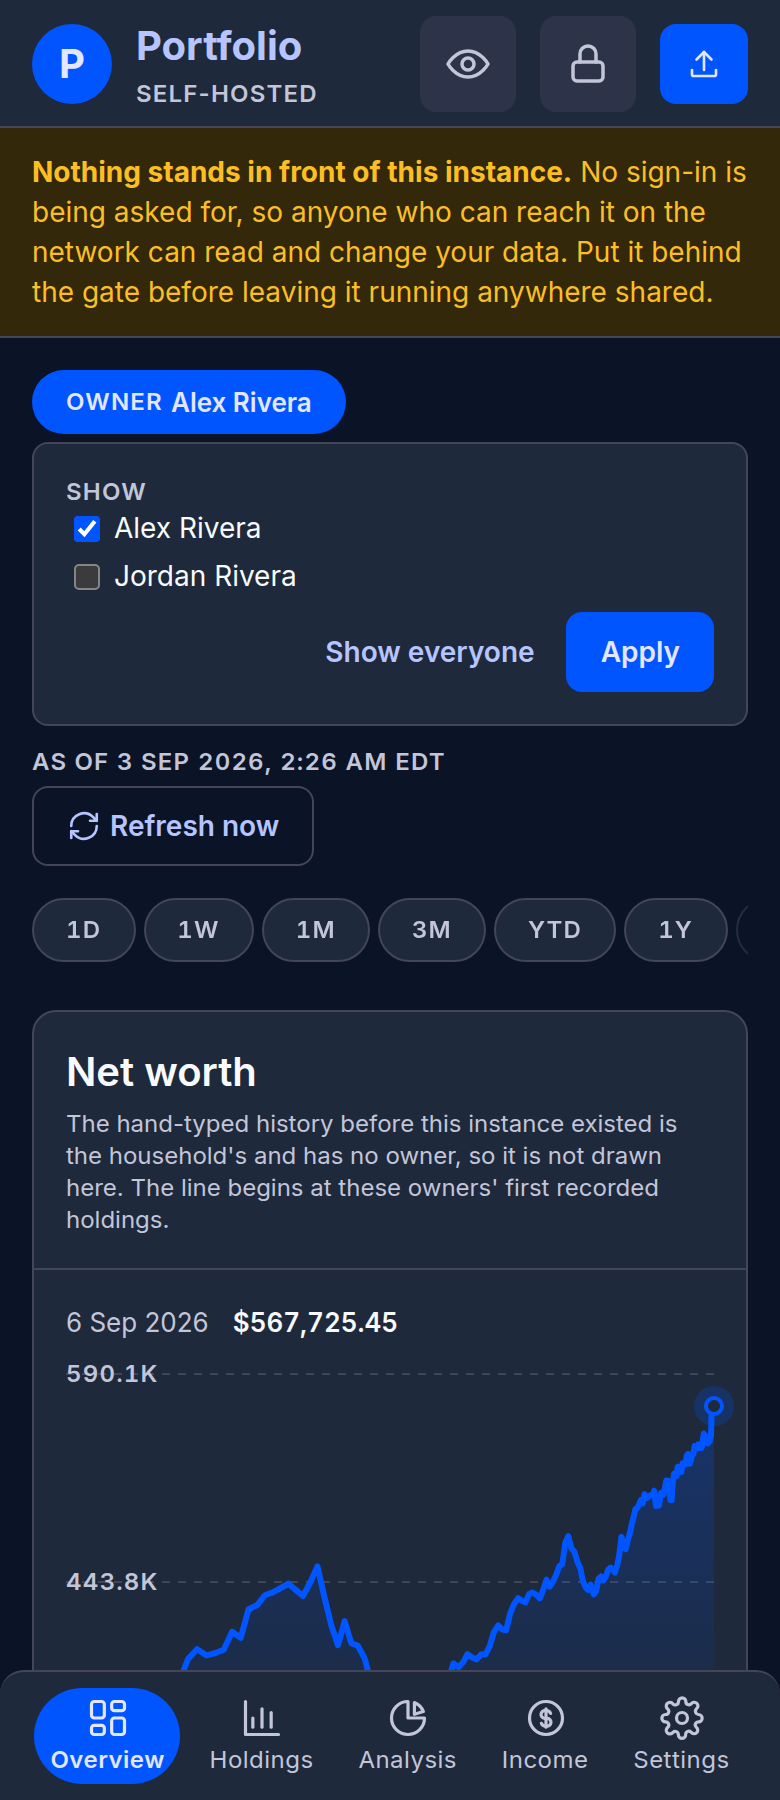
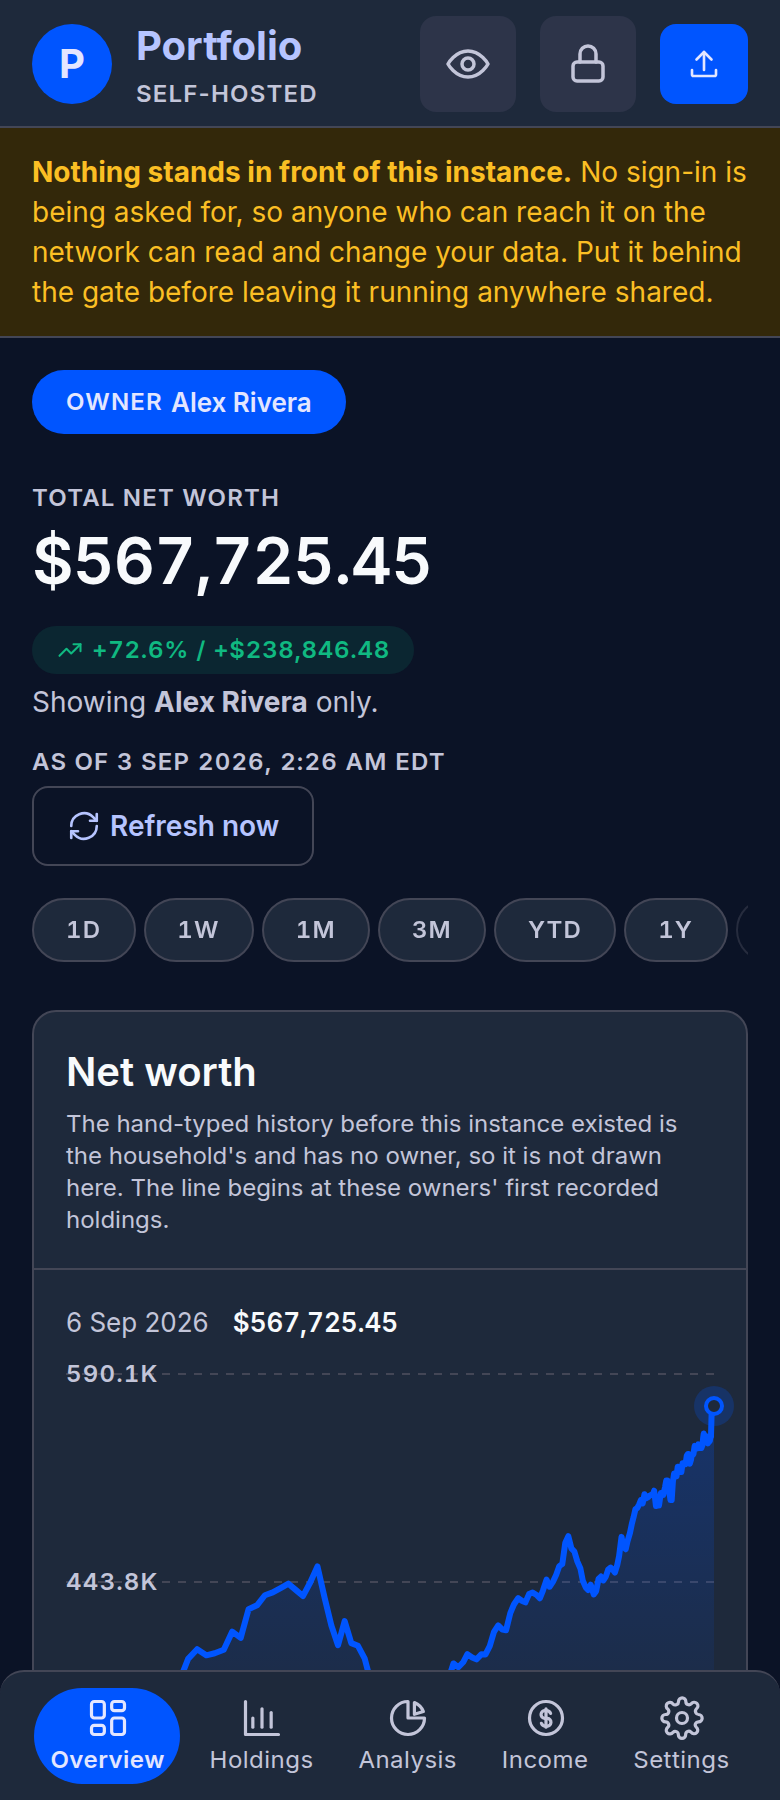
Fix a real rendering bug and a dozen captions an adversarial review found
An Opus review of the screenshot refresh found the mobile columns-mapping
shot was genuinely broken — a phone that scrolled to reach a below-the-fold
button carried that scroll into the next step's own page (no fresh
navigation between the upload flow's own steps), landing mid-page with the
app header and bottom nav both displaced. The earlier fix only scrolled
back to top before the Review shot; generalize it to every step.

Also: crop the unlock screen to its own card instead of the bare page
around it (there is no chrome behind it to exclude, and most of a
full-viewport shot was empty background); stop reopening the owner filter
before shooting Overview's narrowed mobile shot, since the open panel there
overlays the exact headline and sentence the shot exists to show (Holdings'
own menu doesn't have this problem — it overlays empty space instead);
rewrite half a dozen phone-companion captions that described content
sitting below the fold as though it were in frame; correct a claim about
when the unlock padlock actually opens; fix a caption describing the
passkey row as stacked when it is a row; add the Overview tab to a list of
Settings tabs that was missing it; and drop a contradiction between two
guide pages each claiming to be the only step strip that wraps.

Claude-Session: https://claude.ai/code/session_01N8RLCxSnPYRq2KtMFietqQ

Changed region(s): [[0.0308, 0.2489, 0.6769, 0.4044], [0.7077, 0.3422, 0.9231, 0.4044]]

diff --git a/scripts/capture-screenshots.ts b/scripts/capture-screenshots.ts
@@ -536,7 +536,27 @@ async function walkUpload(
   await page.waitForURL(/\/columns/);
   await page.evaluate(() => document.fonts.ready);
 
-  if (shots.columnsBlank) await shoot(page, shots.columnsBlank, fullPage);
+  // Every step in this flow is reached by a form submit, never a fresh
+  // `visit()` — unlike every other shot in this file, nothing here calls
+  // `page.goto()` between steps, and this app has no scroll-to-top-on-
+  // navigate of its own. On a phone, whichever control the previous step
+  // needed clicked (a button below the fold, a `<select>` `selectOption`
+  // scrolls into view to set) can leave the page scrolled, and that offset
+  // then carries into the *next* step's own page, which starts at whatever
+  // height it happens to be rather than at its own top —
+  // `upload-4-review-mobile.png` used to be almost entirely blank for
+  // exactly this reason, and `upload-mapping-mobile-*.png` used to render
+  // with its own header and the bottom navigation both displaced, before
+  // this scrolled every mobile shot in the flow back to (0, 0) first.
+  // Desktop never shows this: every desktop shot here is short enough, at
+  // 1600 wide, that no step before it ever needed to scroll at all.
+  async function shootStep(file: string | undefined): Promise<void> {
+    if (file === undefined) return;
+    if (!fullPage) await page.evaluate(() => window.scrollTo(0, 0));
+    await shoot(page, file, fullPage);
+  }
+
+  await shootStep(shots.columnsBlank);
 
   for (const [name, value] of [
     ["instrument", "Symbol"],
@@ -547,7 +567,7 @@ async function walkUpload(
   ] as const) {
     await page.selectOption(`select[name="${name}"]`, value);
   }
-  if (shots.columnsMapped) await shoot(page, shots.columnsMapped, fullPage);
+  await shootStep(shots.columnsMapped);
 
   await page.getByRole("button", { name: /save mapping and continue/i }).click();
   await page.waitForURL(/\/(instruments|review)/);
@@ -563,25 +583,13 @@ async function walkUpload(
       .nth(1)
       .getAttribute("value");
     await page.selectOption('select[name="classificationId-0"]', classification!);
-    if (shots.instruments) await shoot(page, shots.instruments, fullPage);
+    await shootStep(shots.instruments);
     await page.getByRole("button", { name: /save and continue/i }).click();
     await page.waitForURL(/\/review/);
     await page.evaluate(() => document.fonts.ready);
   }
 
-  // Each step above is a step *this flow* navigates to with a form submit
-  // rather than a fresh `visit()` — unlike every other shot in this file,
-  // nothing here calls `page.goto()` between steps, and this app has no
-  // scroll-to-top-on-navigate of its own. A phone that scrolled down to
-  // reach a button on one step therefore lands on the next one already
-  // scrolled, at whatever offset the previous page happened to be that
-  // tall — `upload-4-review-mobile.png` used to be almost entirely blank
-  // for exactly this reason, carrying the Instruments step's own scroll
-  // position into a Review page that starts well above it. Desktop never
-  // shows this: every desktop shot here is short enough, at 1600 wide, that
-  // the step before it never needed to scroll at all.
-  if (!fullPage) await page.evaluate(() => window.scrollTo(0, 0));
-  if (shots.review) await shoot(page, shots.review, fullPage);
+  await shootStep(shots.review);
 
   await forgetWalkWrites(pool, watermark);
 }
@@ -729,14 +737,23 @@ async function captureUnlock(
   desktopFile: string,
   mobileFile: string,
 ): Promise<void> {
+  // Cropped to the card (`.lock-card`, `unlock.tsx`), on both devices —
+  // never a full-page/full-viewport shot the way most of this file's
+  // captures are. The screen renders with no app chrome at all (no rail, no
+  // strip, no bottom nav — `unlock.tsx`'s own header says why), so a
+  // full-viewport capture is mostly the bare background either side of one
+  // small centred card, on desktop and on a phone alike; the card itself is
+  // the whole of what this screen is a screenshot of.
   const desktop = await open(browser, theme, false, false, false);
   await visit(desktop, "/unlock");
-  await shoot(desktop, desktopFile);
+  await desktop.locator(".lock-card").screenshot({ path: desktopFile });
+  console.log(`  ${desktopFile}`);
   await desktop.close();
 
   const mobile = await open(browser, theme, true, false, false);
   await visit(mobile, "/unlock");
-  await shoot(mobile, mobileFile, false);
+  await mobile.locator(".lock-card").screenshot({ path: mobileFile });
+  console.log(`  ${mobileFile}`);
   await mobile.close();
 }
 
@@ -849,11 +866,20 @@ async function captureReadme(browser: Browser, pool: Pool, fixture: Fixture): Pr
     // below does (finding 2's exception is about the *masking* cookie, not
     // the viewport), and every navigation already tears down the last
     // screen's state the same way the desktop loop's own `page` does.
+    // Closed, unlike the desktop pair above. `.owner-filter-menu` is
+    // `position: absolute` on every screen that has one (`app/app.css`) —
+    // opening it never pushes anything, it overlays whatever sits where it
+    // renders — but on Overview that happens to be exactly the narrowed
+    // headline and the "Showing … only" sentence this shot exists to
+    // prove still work on a phone: the panel opens right under the chip,
+    // which is right where the headline starts. Holdings' own equivalent
+    // shot (`holdings-owner-mobile.png`) keeps the menu open because there
+    // the same overlay lands on empty space above the table, not on the
+    // one thing that shot is of.
     await visitAndShootMobile(
       phone,
       `/?owner=${ownerId}&range=all`,
       `docs/screenshots/overview-owner-mobile-${theme}.png`,
-      { prepare: openOwnerFilter },
     );
     await visitAndShootMobile(phone, "/?range=1d", `docs/screenshots/overview-1d-mobile-${theme}.png`);
     await visitAndShootMobile(
@@ -1019,7 +1045,12 @@ async function captureGuide(browser: Browser, pool: Pool, fixture: Fixture): Pro
     csv,
     brokerage,
     {
-      columnsBlank: "docs/guide/images/upload-2-columns-blank-mobile.png",
+      // No `columnsBlank` here (unlike the desktop walk above): the six
+      // mapping selects that make `upload-2-columns-blank.png` and
+      // `upload-2-columns-mapped.png` a pair sit below the fold on a 390px
+      // phone in both states, so a scrolled-to-top mobile shot of "blank"
+      // is indistinguishable from one of "mapped" — this walk takes the
+      // one phone shot of this step instead of two identical ones.
       columnsMapped: "docs/guide/images/upload-2-columns-mapped-mobile.png",
       instruments: "docs/guide/images/upload-3-instruments-mobile.png",
       review: "docs/guide/images/upload-4-review-mobile.png",

diff --git a/README.md b/README.md
@@ -352,9 +352,9 @@ instance already is: nobody is locked out by a lock nobody can still satisfy.
 
 Once anybody has enrolled a passkey, every browser that reaches the app — however recently it
 signed in through Google — is refused every other screen until it clears this one. One button, one
-action: pressing Unlock hands the challenge to the browser's own passkey provider, and only an
-assertion this instance actually verifies opens the padlock — never the press itself, and never a
-second time for an attempt that was dismissed or timed out.
+action: pressing Unlock hands the challenge to the browser's own passkey provider, and the padlock
+opens the moment that provider's own check passes — never on the press itself, and closed again
+beside the message if this instance goes on to refuse the assertion that check produced.
 
 - **A fact about the browser, at that moment — never about the household.** Unlocking a phone does
   nothing for a laptop, or for anyone else's phone; each stays exactly as locked as it already was.
@@ -418,7 +418,7 @@ control all stay — and each ring sits above the table it is drawn from.
 
 <picture>
   <source media="(prefers-color-scheme: dark)" srcset="docs/screenshots/overview-owner-mobile-dark.png">
-  <img alt="The owner filter narrowed to one owner, on a phone: the disclosure open above a smaller headline and the sentence naming who is shown" width="390" src="docs/screenshots/overview-owner-mobile-light.png">
+  <img alt="The owner filter narrowed to one owner, on a phone: the closed OWNER chip naming who is selected, immediately above the smaller headline and the sentence saying Showing Alex Rivera only" width="390" src="docs/screenshots/overview-owner-mobile-light.png">
 </picture>
 
 <picture>
@@ -444,32 +444,32 @@ boxes, and the line above Save still says what saving will record.
 
 <picture>
   <source media="(prefers-color-scheme: dark)" srcset="docs/screenshots/income-mobile-dark.png">
-  <img alt="Income on a phone: the headline and weighted yield above the two stacked donut-and-table breakdowns" width="390" src="docs/screenshots/income-mobile-light.png">
+  <img alt="Income on a phone: the headline and weighted yield above the first donut, by tax treatment" width="390" src="docs/screenshots/income-mobile-light.png">
 </picture>
 
 <picture>
   <source media="(prefers-color-scheme: dark)" srcset="docs/screenshots/account-detail-mobile-dark.png">
-  <img alt="A brokerage account on a phone: its header, its chart and its holdings stacked in one column" width="390" src="docs/screenshots/account-detail-mobile-light.png">
+  <img alt="A brokerage account on a phone: its identity block, its total and the start of its own chart" width="390" src="docs/screenshots/account-detail-mobile-light.png">
 </picture>
 
 <picture>
   <source media="(prefers-color-scheme: dark)" srcset="docs/screenshots/account-balance-mobile-dark.png">
-  <img alt="A loan account's set balance form, on a phone" width="390" src="docs/screenshots/account-balance-mobile-light.png">
+  <img alt="A loan account on a phone, above its Set balance button" width="390" src="docs/screenshots/account-balance-mobile-light.png">
 </picture>
 
 <picture>
   <source media="(prefers-color-scheme: dark)" srcset="docs/screenshots/settings-mobile-dark.png">
-  <img alt="Settings on a phone: the tab strip above the account list and the add-account form, stacked" width="390" src="docs/screenshots/settings-mobile-light.png">
+  <img alt="Settings on a phone: the tab strip wrapped to two rows, above the start of the account list" width="390" src="docs/screenshots/settings-mobile-light.png">
 </picture>
 
 <picture>
   <source media="(prefers-color-scheme: dark)" srcset="docs/screenshots/settings-passkeys-mobile-dark.png">
-  <img alt="Settings → Passkeys on a phone: the enrolled passkey above the add-a-passkey form" width="390" src="docs/screenshots/settings-passkeys-mobile-light.png">
+  <img alt="Settings → Passkeys on a phone: the one enrolled passkey and its own removal checkbox" width="390" src="docs/screenshots/settings-passkeys-mobile-light.png">
 </picture>
 
 <picture>
   <source media="(prefers-color-scheme: dark)" srcset="docs/screenshots/unlock-mobile-dark.png">
-  <img alt="The Locked screen on a phone: the same single card, centred in a narrower viewport" width="390" src="docs/screenshots/unlock-mobile-light.png">
+  <img alt="The Locked screen's card on a phone: the same heading, sentence and button, at full width" width="390" src="docs/screenshots/unlock-mobile-light.png">
 </picture>
 
 <picture>
@@ -479,12 +479,12 @@ boxes, and the line above Save still says what saving will record.
 
 <picture>
   <source media="(prefers-color-scheme: dark)" srcset="docs/screenshots/upload-mapping-mobile-dark.png">
-  <img alt="The columns screen, on a phone: the file's own sample rows above a select per column" width="390" src="docs/screenshots/upload-mapping-mobile-light.png">
+  <img alt="The columns screen, on a phone: the header-row picker above the file's own sample rows, shown verbatim" width="390" src="docs/screenshots/upload-mapping-mobile-light.png">
 </picture>
 
 <picture>
   <source media="(prefers-color-scheme: dark)" srcset="docs/screenshots/upload-review-mobile-dark.png">
-  <img alt="The review screen, on a phone: added, updated and removed positions stacked in one column" width="390" src="docs/screenshots/upload-review-mobile-light.png">
+  <img alt="The review screen, on a phone: the added/updated/removed counts above the start of the diff, the Added group's first row in frame" width="390" src="docs/screenshots/upload-review-mobile-light.png">
 </picture>
 
 Every screen above has its phone shot here rather than beside its desktop one, so the two are easy

diff --git a/docs/guide/settings.md b/docs/guide/settings.md
@@ -168,7 +168,7 @@ the sign-in at the front door keeps a person out while the lock keeps a browser 
 
 ![Each enrolled passkey, with its label, when it was enrolled and last used, and whether it can sync to other devices](images/settings-passkeys.png)
 
-![The same list on a phone, the checkbox and Remove button stacked under the sentence they belong to](images/settings-passkeys-mobile.png)
+![The same list on a phone: the checkbox and its sentence to the left, Remove to the right, the same row as on a wider screen but narrower](images/settings-passkeys-mobile.png)
 
 What can unlock a browser, once the household holds one. Enrol another, see which can sync to other
 devices, and remove one that is gone for good — the full explanation, in the household's own words
@@ -182,8 +182,9 @@ the one doing it, immediately.
 
 ![Settings on a phone: the seven tabs wrapped to two rows, the accounts table scrolled sideways](images/settings-accounts-mobile.png)
 
-The tab strip wraps to a second row instead of scrolling, which is the one strip in this guide that
-does — the seven tabs stay in view together rather than hiding some off to the side. The tables on
+The tab strip wraps to a second row instead of scrolling — the seven tabs stay in view together
+rather than hiding some off to the side, the way [the upload flow's own step
+strip](upload.md#on-a-phone) does too. The tables on
 this screen keep their columns and scroll sideways to see them all, the way every table but
 Holdings does; **Tax treatment** and the closed/open status are there, just past the edge shown
 here.

diff --git a/docs/guide/upload.md b/docs/guide/upload.md
@@ -246,11 +246,12 @@ Resolving a new instrument is the same form, stacked: **Symbol** and **Name** ea
 line instead of sharing a row, and **Price source** and **Classification** follow underneath rather
 than beside them.
 
-![Step four on a phone: added, updated and removed grouped in one column](images/upload-4-review-mobile.png)
+![Step four on a phone: the added/updated/removed counts above the start of the diff](images/upload-4-review-mobile.png)
 
-The diff reads the same top to bottom as it does side by side on a wider screen — **Added**,
-**Updated** and **Removed** stay in that order, each group heading above its own rows rather than
-beside them.
+The table is already one column on a wider screen, so nothing here reflows — the counts, then
+**Added**, **Updated** and **Removed** in that order, each a heading above its own rows. A phone
+screen just reaches less of it before running out of room; scrolling is how you see **Updated** and
+**Removed**.
 
 ## Two things that do not exist
 

diff --git a/docs/screenshots/README.md b/docs/screenshots/README.md
@@ -99,7 +99,10 @@ arguing that a handful stands in for the rest.
 file carries a live grant (`ensureCapturePasskey`, `captureGrant`) so the screens behind the lock are
 what gets photographed; this is the one page that exists only for a browser without one, and its own
 context is opened without the grant cookie on purpose (`captureUnlock`, `open`'s `withGrant`
-parameter) rather than reusing any other shot's context.
+parameter) rather than reusing any other shot's context. It is also, like `holdings-edit-*.png`,
+cropped to one element (`.lock-card`) rather than the page: the screen renders with no app chrome at
+all, so a full-page or full-viewport capture would be mostly bare background either side of one
+small centred card.
 
 Research screenshots of the *Stitch mock* are a different thing entirely and live in
 [`../research/stitch-2026-08/`](../research/stitch-2026-08/).

diff --git a/docs/guide/account-detail.md b/docs/guide/account-detail.md
@@ -95,7 +95,7 @@ the foot of the page, and **Set balance** in the header jumps to it.
 
 ![A bank account showing the Set balance form](images/set-balance.png)
 
-![The same account on a phone: Upload statement full width, Set balance and Edit details sharing the row beneath it](images/set-balance-mobile.png)
+![The same account on a phone: Upload statement above Set balance and Edit details, sharing the row beneath it](images/set-balance-mobile.png)
 
 **Only bank and loan accounts are offered it.** A brokerage, IRA or workplace plan holds individual
 positions, and typing one cash figure against it would record everything else it holds as sold — so

diff --git a/docs/guide/people-and-accounts.md b/docs/guide/people-and-accounts.md
@@ -115,8 +115,8 @@ The reasoning behind closing rather than deleting, and behind the three-way tax 
 
 ![Settings → People, empty, on a phone](images/first-run-people-mobile.png)
 
-The tab strip wraps onto a second line instead of scrolling, so every tab — People, Accounts, Tax,
-Prices, Display, Passkeys — stays reachable without a sideways swipe.
+The tab strip wraps onto a second line instead of scrolling, so every tab — Overview, People,
+Accounts, Tax, Prices, Display, Passkeys — stays reachable without a sideways swipe.
 
 ![Settings → Accounts with nobody recorded yet, on a phone](images/first-run-accounts-mobile.png)
 
